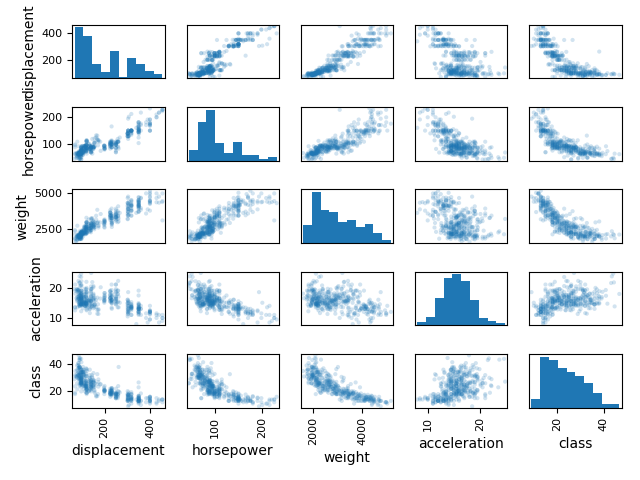
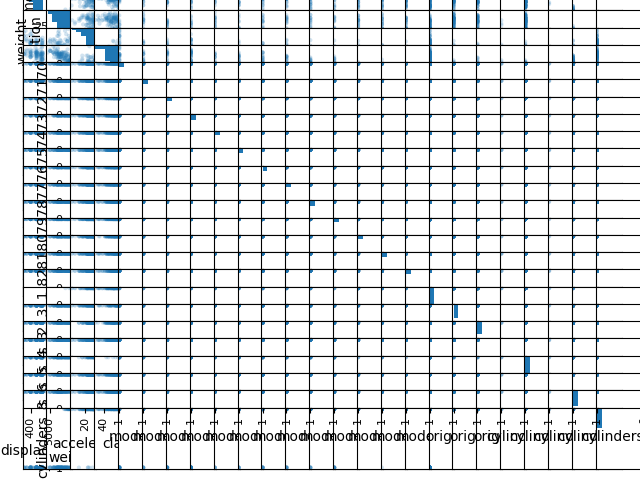
Change to boolean list, dealt with utf-8 conversion

diff --git a/main.py b/main.py
@@ -5,6 +5,29 @@ import matplotlib.pyplot as plt
 import gradient_descent
 
 
+#convert discontinuous variable to boolean table
+def convert_discontinuous_variable(df):
+    cylinder_var=[3,4,5,6,8]
+    model_var=[70, 71, 72, 73, 74, 75, 76, 77, 78, 79, 80, 81, 82]
+    origin_var=[1, 3, 2]
+    df1= df
+    for k in model_var:
+        df1['model'+'_'+str(k)]= df1['model'].str.decode("utf-8")
+        df1['model'+'_'+str(k)]= np.where(df1['model'+'_'+str(k)]== str(k),1,0)
+    #remoove model 
+
+    for k in origin_var:
+        df1['origin'+'_'+str(k)]= df1['origin'].str.decode("utf-8")
+        df1['origin'+'_'+str(k)]= np.where(df1['origin'+'_'+str(k)]==str(k) ,1,0)
+    for k in cylinder_var:
+        df1['cylinders'+'_'+str(k)]= df1['cylinders'].str.decode("utf-8")        
+        df1['cylinders'+'_'+str(k)]= np.where(df1['cylinders'+'_'+str(k)]==str(k) ,1,0)
+
+    df1.drop(['horsepower','model','cylinders'],axis=1,inplace=True)    
+    
+    return df1
+    
+
 def draw_scatter_matrix(df):
     axes = pd.tools.plotting.scatter_matrix(df, alpha=0.2)
     plt.tight_layout()
@@ -20,20 +43,23 @@ def read_arf_data (file_name):
 
 
 if __name__ == '__main__':
-    data_frame= read_arf_data('autoMpg.arff')
+    random , data_frame= read_arf_data('autoMpg.arff')
     #dealing with null values in the data set     
     #since only few rows are associated with null values we are dropping that rows 
-
     #•	Replace the missing values of horsepower column with the median value of the same column
-    
     #horse power median values is 93.5
     #since we know that the only nan values in the system is horsepower 
     
     data_frame = data_frame.fillna(data_frame.median())
-
-    numpy_data = data_frame.as_matrix(columns= None) #storing number as a numpy matrix 
-    attributes =data_frame.columns.values #list of column names 
-    draw_scatter_matrix(data_frame)
+    
+    new_data_frame = convert_discontinuous_variable(data_frame)
+    print(data_frame.head())
+    print(new_data_frame.head())
+    numpy_data = new_data_frame.as_matrix(columns= None) #storing number as a numpy matrix 
+    print(numpy_data)
+    attributes =new_data_frame.columns.values #list of column names 
+    print(attributes)
+    #draw_scatter_matrix(data_frame)
 
     
     #after seeing the scatter plot we can make linear regression architecture for multiple 
@@ -41,4 +67,3 @@ if __name__ == '__main__':
     # gradient_descent with linear regression 
     # multivariable linear regression is our data
    
-
